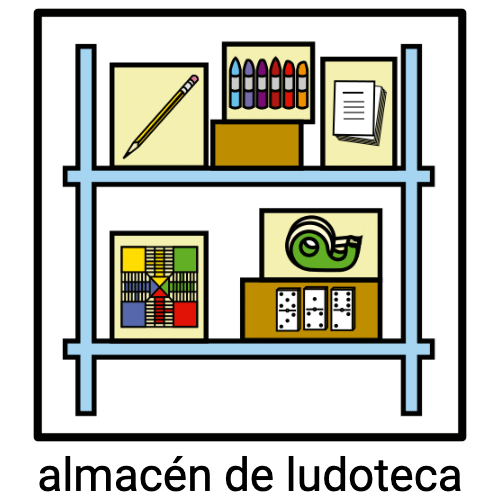
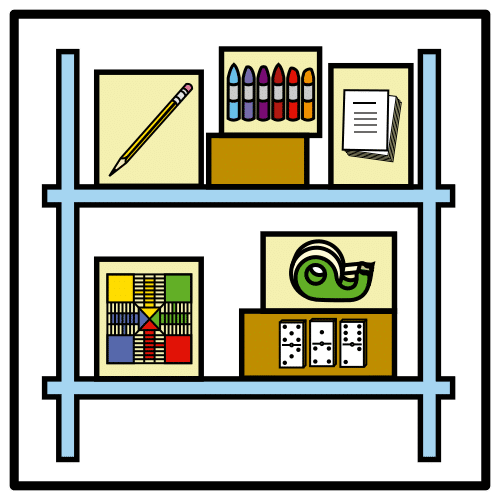
Ultimo retoque

diff --git a/todoApp/templates/todoApp/index.html b/todoApp/templates/todoApp/index.html
@@ -1,4 +1,3 @@
-
 {%load static%}
 <link rel="stylesheet" href="{% static 'index.css' %}">
 <link rel="stylesheet" href="{% static 'styles.css' %}">
@@ -19,6 +18,11 @@
 
 <div class="menu-selector">
 	<div class="imagen-menu">
+        <div class="title_images">
+            <span>
+                MenÃº
+            </span>
+        </div>
 		{% load static %}
 		<a class="enlace-comedor" href="{% url 'comandaGeneral' %}">
 			<img src='{% static "menu.png" %}' alt="menu comedor">
@@ -28,6 +32,11 @@
 	</div>
 
 	<div class="imagen-menu">
+        <div class="title_images">
+            <span>
+                Almacen ludoteca
+            </span>
+        </div>
 		{% load static %}
 		<img src='{% static "almacen.png" %}' alt="menu almacen">
 	</div>
